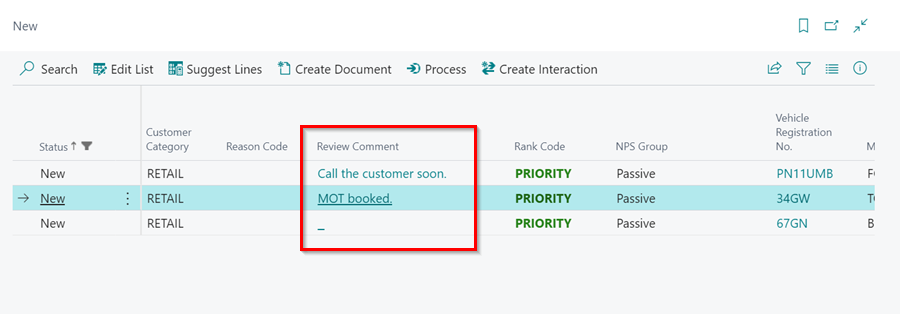
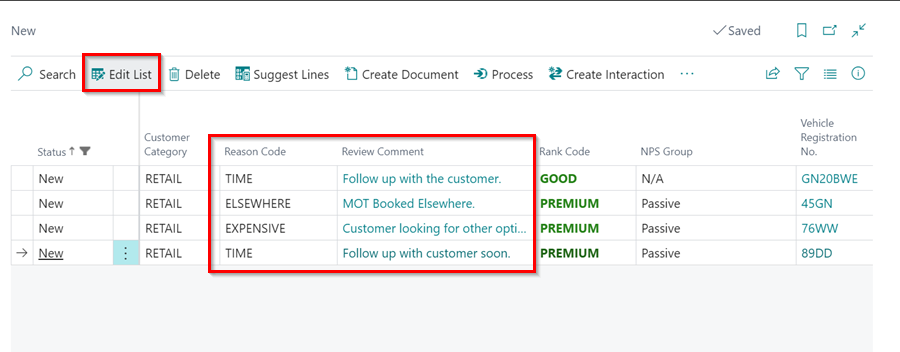
docs update

diff --git a/docs/garagehive-reminded-not-booked-setup.md b/docs/garagehive-reminded-not-booked-setup.md
@@ -1,12 +1,9 @@
 ---
 layout: docs
-title: DRAFT* - Using the Reminded Not Booked Tiles
+title: Using the Reminded Not Booked Tiles
 ---
 
 <a name="top"></a>
-
-# We are still working on this article!
-We are currently reviewing this article before it is published, check back later.
 
 # Using the Reminded Not Booked Tiles
 The primary goal of sending reminders to customers is to prompt them to book the service they were notified about. However, in some cases, the customer may not book as expected and require further follow-up. This is where the **Reminded Not Booked** feature is useful. It creates a list within the system to help you keep track of which customers need follow-up action regarding their booking.
@@ -66,7 +63,7 @@ This setup can be only be done by a **System Admin**. To Setup the **Reminded No
 
    ![](media/garagehive-reminded-not-booked-tiles5.png)
 
-8. To add a comment about the line, select an appropriate **Reason Code** and write the comment in the **Comment** column.
+8. To add a **Reason Code** and a **Comment** about the line, click on **Edit List** and enter select the reason in the **Reason Code** column and write the comment in the **Review Comment** column.
 
    ![](media/garagehive-reminded-not-booked-tiles6.png)
 

diff --git a/docs/garagehive-automatically-adding-service-packages.md b/docs/garagehive-automatically-adding-service-packages.md
@@ -22,7 +22,7 @@ To begin automatically applying service packages in jobsheets, link **Service Ty
 
 4. This also applies when booking from the **Schedule**. You can book a **Service Type** is linked to a **Service Package**, and the **Service Package** will be added automatically.
 
-   ![](media/garagehive-trial-creating-a-purchase-order4.gif)
+   ![](media/garagehive-automatically-adding-service-packages4.gif)
 
 
 [Go back to top](#top)
